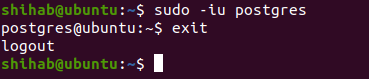
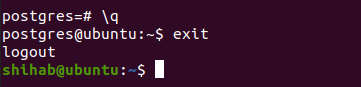
Connect to Datbase
ways to connect to a database

diff --git a/README.md b/README.md
@@ -35,7 +35,7 @@ Now,run the command to check the status of PostgreSQL service
 You should see something like: 
 
 ![status](images/status.png)
-If the postgresql service is not active, to start type execute:
+If the postgresql service is not active, to start it:
 
 > $ sudo systemctl start postgresql
 
@@ -57,7 +57,7 @@ NOW, you can access the Postgres prompt by typing:
 
 You have landed at the following SQL prompt − postgres=#
 
-OR, you can directly access the SQL prompt by executing:
+Another way to connect to the Postgres prompt is to run the __psql__ command as the postgres account directly with sudo:
 >$ sudo -iu postgres psql 
 
 ![SQL prompt](images/prompt.png)
@@ -72,18 +72,21 @@ To exit out of the PostgreSQL prompt, run the following:
 
 ![exit](images/exit.png)
 
-TO exit out of __postgres@ubuntu:~$__ , run exit or CTRL+d
+This will bring you back to the postgres Linux command prompt(__postgres@ubuntu:~$__ ). To return to your regular system user, run the exit or CTRL+d command:
 
-![exit1](images/exit1.png)
+![exit](images/exit1.png)
 
-# Create Database
+# SQL Commands
+Let's learn some SQL COMMANDS. You can go to the official docs for commands which is   [OFFICIAL SQL COMMANDS](https://www.postgresql.org/docs/12/sql-commands.html)
+
+## Create Database
 
 Before creating a database let's see our List of databases. To see this just simply type __\l__, this will list out your databases and others information
 
 ![list](images/list.png)
 
 Here you can see I have 5 databases(I created shihab and test databases before writmg this docs)
-Let's create a new database for this docs, let me name it testdb.
+Let's create a new database for this docs, let me name it testdb(you can name it whatever you want).
 
 The __syntax__ is: 
                 
@@ -95,3 +98,33 @@ Don't forget to put the semicolon(;) at the end.
 
 ![create database](images/createdb.png)
 You can see we just created a datbase __testdb__ .
+
+## Drop Datbase
+To drop a database simply execute:
+
+                DROP DATABASE dbname; 
+
+![drop database](images/dropdb.png)
+Be very careful to __drop a database/table__. Because you can not even undo this.
+
+For our learning I have created the __testdb__ again.
+
+## Connect to Datbase
+We have crated a datbase name __testdb__ so far, let's connect to it( till now we are connected to postgres database).
+There are two ways to connect to a database.
+<ol>
+1. Type following from your regular user mode
+
+            psql -h localhost -p 5432 -U postgres testdb  
+It will ask you the password of postgres; which is __postgres__ by default. In the above command -h option is for hostname(here it is localhost becuase we are connecting to a local database, if you want to connect to a remote database then put the ip address here), -p is the port number(default is 5432), -U is for username and then the database name that we want to connect.
+
+![connection type 1](images/con1.png)
+2. The other way, which is the simplest way is to execute the following command from __PostgreSQL prompt__
+
+            \c dbname
+Here, dbname = The Datbase you want to connect. In our case, it is testdb.
+
+![connection type 2](images/con2.png)
+</ol>
+
+As you can see, now we are connected to our __testdb__ database.
